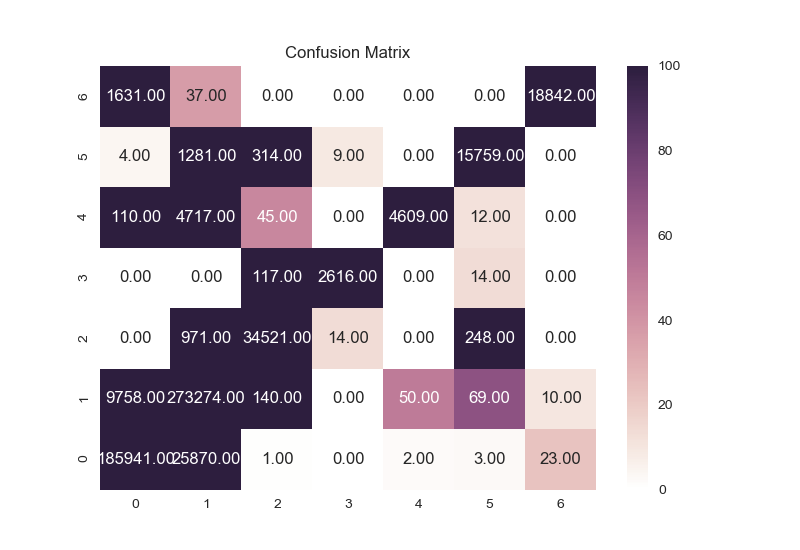
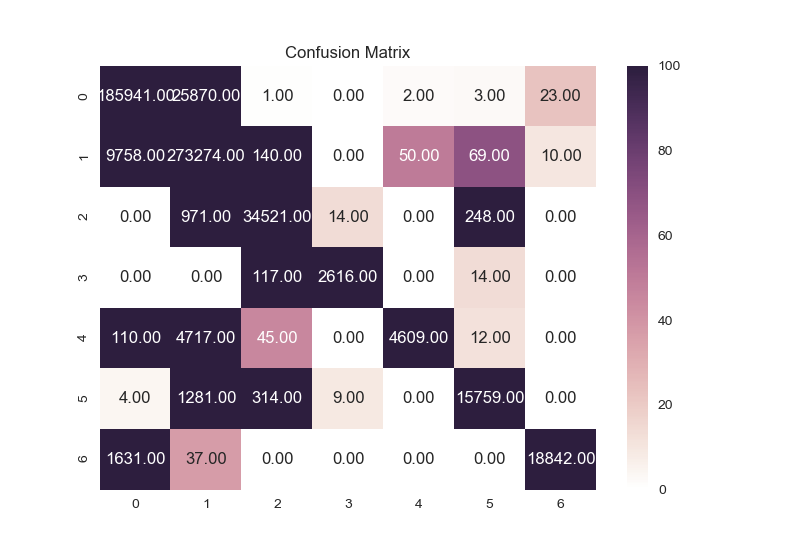
confusion matrix saving as png and displaying!! (can fix classes later, the labels start from 0-6, should be 1-7 but can do this later)

diff --git a/Covertype_Prediction/Scripts/picklejar.py b/Covertype_Prediction/Scripts/picklejar.py
@@ -41,6 +41,7 @@ def hyper_param_rf_pickle(X_test, y_test, model):
 
     df_mat = pd.DataFrame(conf_mat)
     print("* Saved conf mat in df")
+    print(df_mat)
 
 
     fig = plt.figure()
@@ -50,8 +51,8 @@ def hyper_param_rf_pickle(X_test, y_test, model):
     print("* Plot rfc")
     cmap = sns.cubehelix_palette(light=1, as_cmap=True)
     print("* Set SNS hue")
-    res = sns.heatmap(conf_mat, annot=True, vmin=0.0, vmax=100.0, fmt='.2f', cmap=cmap)
-    res.invert_yaxis()
+    res = sns.heatmap(df_mat, annot=True, vmin=0.0, vmax=100.0, fmt='.2f', cmap=cmap)
+    # res.invert_yaxis()
 
     # plt.matshow(conf_mat)
     print("* confmat plotted in picklejar")
